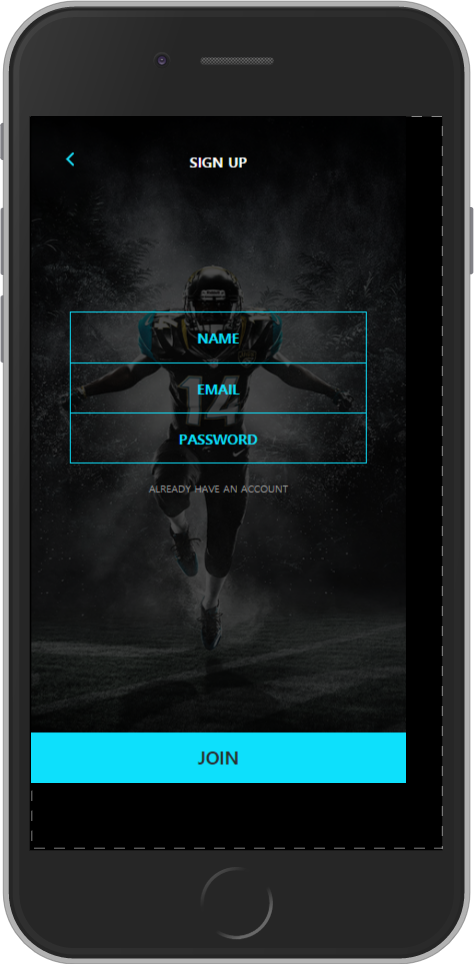
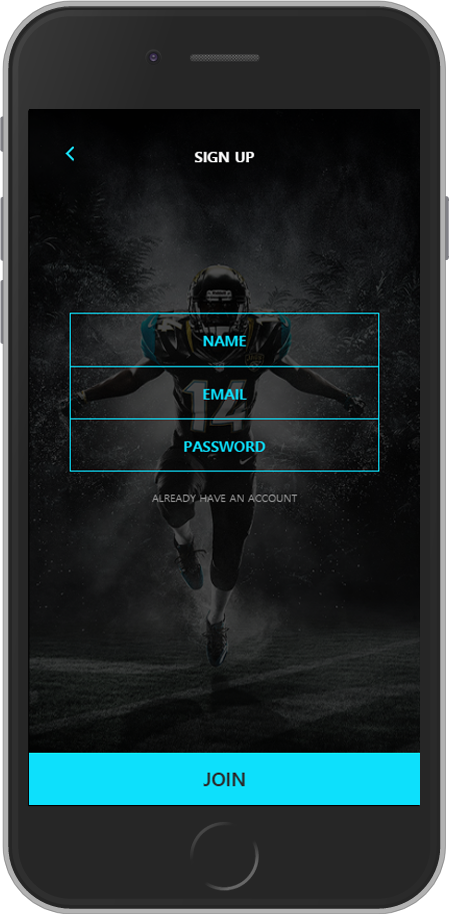
블로그 관련 수정

diff --git a/_posts/2016-08-17-sports.md b/_posts/2016-08-17-sports.md
@@ -5,7 +5,7 @@ title: 'Sports'
 date: 2016-08-07 20:56:00
 categories: development
 tags: HTML5 CSS3 Sass
-featured_mobile_image: 'img/posts/-D--rovermind-FDS-test-20-sports-01_sign_up.html(iPhone 6)'
+featured_mobile_image: 'img/posts/-D--rovermind-FDS-test-20-sports-01_sign_up.html(iPhone 6).png'
 project_link: 'https://rovermind.github.io/test/20-sports/01_sign_up.html'
 button_icon: 'mobile'
 button_text: 'Visit Webpage'

diff --git a/_posts/2016-08-24-dashboard.md b/_posts/2016-08-24-dashboard.md
@@ -1,0 +1,13 @@
+---
+layout: inner
+position: right
+title: 'Dashboard'
+date: 2016-08-07 20:56:00
+categories: development
+tags: HTML5 CSS3 Sass
+featured_image: 'img/posts/dashboard-1130x864-2x.png'
+project_link: 'https://rovermind.github.io/test/21-dashboard/dashboard.html'
+button_icon: 'desktop'
+button_text: 'Visit Webpage'
+lead_text: 'Sass 활용, 관리자 웹페이지'
+---
